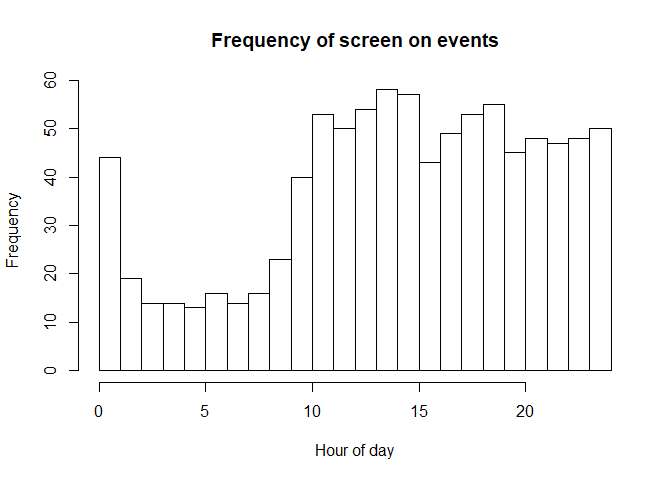
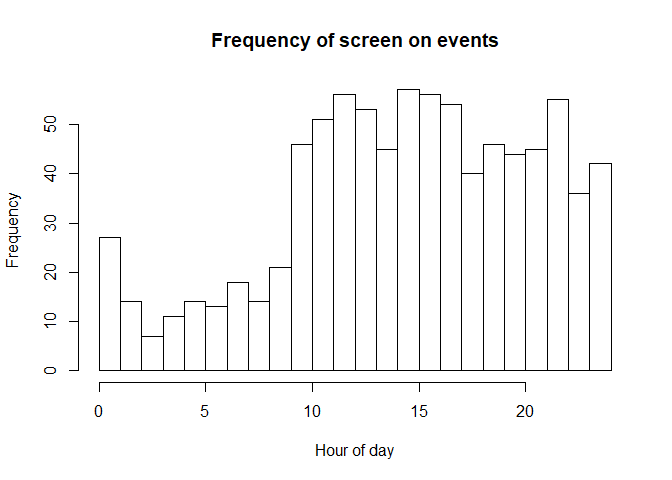
rho=0 option added

diff --git a/README.md b/README.md
@@ -139,36 +139,36 @@ head(outmat_orig)
 ```
 
     ##                    t0                  t1
-    ## 1 03/03/2019 15:00:00 03/03/2019 15:00:37
-    ## 2 03/03/2019 15:00:37 03/03/2019 15:04:45
-    ## 3 03/03/2019 15:04:45 03/03/2019 15:55:36
-    ## 4 03/03/2019 15:55:36 03/03/2019 16:05:45
-    ## 5 03/03/2019 16:05:45 03/03/2019 16:19:04
-    ## 6 03/03/2019 16:19:04 03/03/2019 16:35:38
+    ## 1 03/03/2019 15:00:00 03/03/2019 15:01:24
+    ## 2 03/03/2019 15:01:24 03/03/2019 15:07:07
+    ## 3 03/03/2019 15:07:07 03/03/2019 15:10:30
+    ## 4 03/03/2019 15:10:30 03/03/2019 15:14:44
+    ## 5 03/03/2019 15:14:44 03/03/2019 15:25:43
+    ## 6 03/03/2019 15:25:43 03/03/2019 15:52:49
 
 ``` r
 head(outmat_mod)
 ```
 
     ##          [,1]     [,2] [,3]
-    ## [1,] 15.00000 15.01031    1
-    ## [2,] 15.01031 15.07927    1
-    ## [3,] 15.07927 15.92672    1
-    ## [4,] 15.92672 16.09605    1
-    ## [5,] 16.09605 16.31796    1
-    ## [6,] 16.31796 16.59406    1
+    ## [1,] 15.00000 15.02355    1
+    ## [2,] 15.02355 15.11874    1
+    ## [3,] 15.11874 15.17514    1
+    ## [4,] 15.17514 15.24565    1
+    ## [5,] 15.24565 15.42864    1
+    ## [6,] 15.42864 15.88029    1
 
 ``` r
 head(compare_to_outmat_mod)
 ```
 
     ##          [,1]     [,2] [,3]
-    ## [1,] 15.00000 15.01028    1
-    ## [2,] 15.01028 15.07917    1
-    ## [3,] 15.07917 15.92667    1
-    ## [4,] 15.92667 16.09583    1
-    ## [5,] 16.09583 16.31778    1
-    ## [6,] 16.31778 16.59389    1
+    ## [1,] 15.00000 15.02333    1
+    ## [2,] 15.02333 15.11861    1
+    ## [3,] 15.11861 15.17500    1
+    ## [4,] 15.17500 15.24556    1
+    ## [5,] 15.24556 15.42861    1
+    ## [6,] 15.42861 15.88028    1
 
 To see what the resulting data looks
 like:
@@ -283,23 +283,12 @@ times (*x\_s* and *x\_w*). We do a grid search over some of the
 parameter space (*rho*, *sigma\_s*, and *sigma\_w*) to pick an initial
 value for the numerical optimization of the likelihood, but we make
 smarter data-based guesses as initial values for the remaing parameters
-(*mu\_s*, *mu\_w*, *lambda\_s*, and *lambda\_w*).
+(*mu\_s*, *mu\_w*, *lambda\_s*, and *lambda\_w*). Note that we also
+allow for the option of setting *rho* equal to zero. This is controlled
+by the boolean *incl\_rho* parameter in the FindParamMLEs function, with
+a default value of false.
 
 ``` r
-# IndLik2 = function(t_init,wt,xs,xw,lambda_s,lambda_w){
-#   if(t_init< xs){
-#     numer = lambda_w*exp(-lambda_w*wt)
-#     denom = 1-exp(-lambda_w*(xs-t_init))+exp(-lambda_s*(xs-t_init))-exp(-lambda_s*(xw-t_init))+exp(-lambda_w*(xw-t_init))
-#   }else if(t_init < xw){
-#     numer = lambda_s*exp(-lambda_s*wt)
-#     denom = 1-exp(-lambda_s*(xw-t_init))+exp(-lambda_w*(xw-t_init))
-#   }else{
-#     numer = lambda_w*exp(-lambda_w*wt)
-#     denom = 1
-#   }
-#   return(numer/denom)
-# }
-
 IndLik = function(t_init,wt,xs,xw,lambda_s,lambda_w,mu_s,mu_w){
   if(t_init+wt>mu_s+24){ # return pr(t_init+wt>mu_s+24) instead of density
     if(t_init<xs){
@@ -338,24 +327,8 @@ IndLik = function(t_init,wt,xs,xw,lambda_s,lambda_w,mu_s,mu_w){
   }
 }
 
-# IndLik = function(t_init,wt,xs,xw,lambda_s,lambda_w){
-#   if(t_init<xs && xw<t_init+wt){# case 1: t_init<xs and xw<t_init+wt
-#     return(lambda_w*exp(-lambda_w*(xs-t_init)-lambda_s*(xw-xs)-lambda_w*(t_init+wt-xw)))
-#   }else if(t_init<xs && xs<t_init+wt){  # case 2: t_init<xs and xs<t_init+wt<xw
-#     return(lambda_s*exp(-lambda_w*(xs-t_init)-lambda_s*(t_init+wt-xs)))
-#   }else if(t_init+wt<xs){  # case 3: t_init<xs and t_init+wt<xs
-#     return(lambda_w*exp(-lambda_w*(wt)))
-#   }else if(t_init<xw && t_init+wt<xw){  # case 4: xs<t_init<xw and t_init+wt<xw
-#     return(lambda_s*exp(-lambda_s*(wt)))
-#   }else if(t_init<xw && xw<t_init+wt){  # case 5: xs<t_init<xw and xw<t_init+wt
-#     return(lambda_w*exp(-lambda_s*(xw-t_init)-lambda_w*(t_init+wt-xw)))
-#   }else if(xw<t_init){  # case 6: xw<t_init
-#     return(lambda_w*exp(-lambda_w*(wt)))
-#   }
-# }
 
-
-JointLik = function(mat,mu_s,mu_w,sigma_s,sigma_w,rho,lambda_s,lambda_w,x_s,x_w,INCL_DENSITY=FALSE,loglik=FALSE){
+JointLik = function(mat,mu_s,mu_w,sigma_s,sigma_w,rho,lambda_s,lambda_w,x_s,x_w,INCL_DENSITY=FALSE,loglik=FALSE,incl_rho=FALSE){
   if(x_s>x_w){
     if(loglik){
       return(-Inf)
@@ -383,6 +356,7 @@ JointLik = function(mat,mu_s,mu_w,sigma_s,sigma_w,rho,lambda_s,lambda_w,x_s,x_w,
     }
   }
   if(INCL_DENSITY){
+    if(!incl_rho){rho=0}
     if(loglik){
       t2=log(dmvnorm(c(x_s,x_w),mean = c(mu_s,mu_w), sigma= matrix(c(sigma_s^2,rho*sigma_s*sigma_w,rho*sigma_s*sigma_w,sigma_w^2),nrow=2,byrow=T)))
     }else{
@@ -403,7 +377,7 @@ JointLik = function(mat,mu_s,mu_w,sigma_s,sigma_w,rho,lambda_s,lambda_w,x_s,x_w,
 }
 
 
-MargLik = function(mat,mu_s,mu_w,sigma_s,sigma_w,rho,lambda_s,lambda_w,loglik=FALSE){
+MargLik = function(mat,mu_s,mu_w,sigma_s,sigma_w,rho,lambda_s,lambda_w,incl_rho,loglik=FALSE){
   if( mu_s> mu_w || sigma_s<0 || sigma_w<0 || abs(rho)>1 || lambda_s<0 || lambda_w <0 || lambda_s > lambda_w){
     if(loglik){
       return(-Inf)
@@ -418,9 +392,13 @@ MargLik = function(mat,mu_s,mu_w,sigma_s,sigma_w,rho,lambda_s,lambda_w,loglik=FA
       return(1)
     }
   }
-  Sigma=matrix(c(sigma_s^2,rho*sigma_s*sigma_w,rho*sigma_s*sigma_w,sigma_w^2),nrow=2,byrow=T)
+  if(incl_rho){
+    Sigma=matrix(c(sigma_s^2,rho*sigma_s*sigma_w,rho*sigma_s*sigma_w,sigma_w^2),nrow=2,byrow=T)
+  }else{
+    Sigma=matrix(c(sigma_s^2,0,0,sigma_w^2),nrow=2,byrow=T)
+  }
   ghout=mgauss.hermite(10,c(mu_s,mu_w),Sigma)
-  return(sum(ghout$weights*unlist(lapply(1:nrow(ghout$points),function(xx) JointLik(mat,mu_s,mu_w,sigma_s,sigma_w,rho,lambda_s,lambda_w,ghout$points[xx,1],ghout$points[xx,2],loglik)))))
+  return(sum(ghout$weights*unlist(lapply(1:nrow(ghout$points),function(xx) JointLik(mat,mu_s,mu_w,sigma_s,sigma_w,rho,lambda_s,lambda_w,ghout$points[xx,1],ghout$points[xx,2],loglik,incl_rho)))))
 }
 
 
@@ -449,15 +427,19 @@ InitialParameters = function(mat_mod,anchor_t){
 }
 
 
-GridSearchInitPars = function(mat_mod,anchor_t,labels,ls_ids,mu_s0,mu_w0,lambda_s0,lambda_w0){
+GridSearchInitPars = function(mat_mod,anchor_t,labels,ls_ids,mu_s0,mu_w0,lambda_s0,lambda_w0,incl_rho){
   sd_s_v = c(.25,.5,1)
   sd_w_v = c(.25,.5,1)
-  rho_v= c(0,.25,.5,.75)
+  if(incl_rho){
+    rho_v= c(0,.25,.5,.75)
+  }else{
+    rho_v=c(0)
+  }
   g=function(par_v){
     liktot=0
     for(i in 1:length(labels)){
       mat=mat_mod[ls_ids[[i]],1:2]
-      liktot=liktot-log(MargLik(mat,par_v[1],par_v[2],par_v[3],par_v[4],par_v[5],par_v[6],par_v[7]))
+      liktot=liktot-log(MargLik(mat,par_v[1],par_v[2],par_v[3],par_v[4],par_v[5],par_v[6],par_v[7],incl_rho))
     }
     return(liktot)
   }
@@ -478,7 +460,7 @@ GridSearchInitPars = function(mat_mod,anchor_t,labels,ls_ids,mu_s0,mu_w0,lambda_
 }
 
 
-FindParamMLEs = function(dat,anchor_t,maxiter=20,init_par=NULL,tol=.0001){
+FindParamMLEs = function(dat,anchor_t,incl_rho=FALSE,maxiter=20,init_par=NULL,tol=.0001){
   labels=unique(dat[,3])
   ls_ids = list()
   for(i in 1:length(labels)){
@@ -491,7 +473,7 @@ FindParamMLEs = function(dat,anchor_t,maxiter=20,init_par=NULL,tol=.0001){
     mu_w0=init_pars4[2]
     lambda_s0=init_pars4[3]
     lambda_w0=init_pars4[4]
-    init_par = GridSearchInitPars(dat,anchor_t,labels,ls_ids,mu_s0,mu_w0,lambda_s0,lambda_w0)
+    init_par = GridSearchInitPars(dat,anchor_t,labels,ls_ids,mu_s0,mu_w0,lambda_s0,lambda_w0,incl_rho)
   }
   cur_par=init_par
   prev_par=cur_par
@@ -501,22 +483,35 @@ FindParamMLEs = function(dat,anchor_t,maxiter=20,init_par=NULL,tol=.0001){
       liktot=0
       for(i in 1:length(labels)){
         mat=dat[ls_ids[[i]],1:2]
-        liktot=liktot-log(MargLik(mat,par_v[1],par_v[2],cur_par[3],cur_par[4],cur_par[5],par_v[3],par_v[4]))
+        liktot=liktot-log(MargLik(mat,par_v[1],par_v[2],cur_par[3],cur_par[4],cur_par[5],par_v[3],par_v[4],incl_rho))
       }
       return(liktot)
     }
     optim.out1=optim(par=cur_par[c(1,2,6,7)],g1,control=list(maxit=1000))
     cur_par[c(1,2,6,7)]=optim.out1$par
-    g2=function(par_v){
-      liktot=0
-      for(i in 1:length(labels)){
-        mat=dat[ls_ids[[i]],1:2]
-        liktot=liktot-log(MargLik(mat,cur_par[1],cur_par[2],par_v[1],par_v[2],par_v[3],cur_par[6],cur_par[7]))
+    if(incl_rho){
+      g2=function(par_v){
+        liktot=0
+        for(i in 1:length(labels)){
+          mat=dat[ls_ids[[i]],1:2]
+          liktot=liktot-log(MargLik(mat,cur_par[1],cur_par[2],par_v[1],par_v[2],par_v[3],cur_par[6],cur_par[7],incl_rho))
+        }
+        return(liktot)
       }
-      return(liktot)
+      optim.out2=optim(par=cur_par[c(3,4,5)],g2,control=list(maxit=1000))
+      cur_par[c(3,4,5)]=optim.out2$par
+    }else{
+      g2=function(par_v){
+        liktot=0
+        for(i in 1:length(labels)){
+          mat=dat[ls_ids[[i]],1:2]
+          liktot=liktot-log(MargLik(mat,cur_par[1],cur_par[2],par_v[1],par_v[2],0,cur_par[6],cur_par[7],incl_rho))
+        }
+        return(liktot)
+      }
+      optim.out2=optim(par=cur_par[c(3,4)],g2,control=list(maxit=1000))
+      cur_par[c(3,4)]=optim.out2$par
     }
-    optim.out2=optim(par=cur_par[c(3,4,5)],g2,control=list(maxit=1000))
-    cur_par[c(3,4,5)]=optim.out2$par
     cat("Iter ",i,": mu_s =",cur_par[1],"; mu_w =",cur_par[2],"; sd_s =",cur_par[3],"; sd_w =",cur_par[4],"; rho =",cur_par[5],"; lambda_s =",cur_par[6],"; lambda_w =",cur_par[7],"\n")
     if(sum((prev_par-cur_par)^2)<tol){
       break
@@ -527,15 +522,15 @@ FindParamMLEs = function(dat,anchor_t,maxiter=20,init_par=NULL,tol=.0001){
   return(cur_par)
 }
 
-mle.out=FindParamMLEs(outmat_mod,anchor_t)
+mle.out=FindParamMLEs(outmat_mod,anchor_t,incl_rho=FALSE)
 ```
 
     ## Identifying good initial model parameters...
     ## Numerical optimization (using optim) until convergence (maxiter= 20 ):
-    ## Iter  1 : mu_s = 25.24636 ; mu_w = 33.28475 ; sd_s = 1.025562 ; sd_w = 0.9999187 ; rho = 0.7637859 ; lambda_s = 1.74148 ; lambda_w = 5.105744 
-    ## Iter  2 : mu_s = 25.24236 ; mu_w = 33.28475 ; sd_s = 1.02624 ; sd_w = 0.9987874 ; rho = 0.766085 ; lambda_s = 1.661761 ; lambda_w = 5.012784 
-    ## Iter  3 : mu_s = 25.24236 ; mu_w = 33.28475 ; sd_s = 1.02624 ; sd_w = 0.9987874 ; rho = 0.766085 ; lambda_s = 1.667631 ; lambda_w = 5.001537 
-    ## Iter  4 : mu_s = 25.24236 ; mu_w = 33.28475 ; sd_s = 1.02624 ; sd_w = 0.9987874 ; rho = 0.766085 ; lambda_s = 1.667631 ; lambda_w = 5.001537
+    ## Iter  1 : mu_s = 24.2816 ; mu_w = 33.18183 ; sd_s = 0.974664 ; sd_w = 0.9723235 ; rho = 0 ; lambda_s = 1.406986 ; lambda_w = 4.921006 
+    ## Iter  2 : mu_s = 24.2816 ; mu_w = 33.1823 ; sd_s = 0.9746456 ; sd_w = 0.9722013 ; rho = 0 ; lambda_s = 1.410163 ; lambda_w = 4.857333 
+    ## Iter  3 : mu_s = 24.2816 ; mu_w = 33.18248 ; sd_s = 0.9746455 ; sd_w = 0.9722016 ; rho = 0 ; lambda_s = 1.479092 ; lambda_w = 4.911341 
+    ## Iter  4 : mu_s = 24.2816 ; mu_w = 33.18247 ; sd_s = 0.9746455 ; sd_w = 0.9722016 ; rho = 0 ; lambda_s = 1.47634 ; lambda_w = 4.908354
 
 The maximum likelihood estimates and the interpretations of the model
 parameters are:
@@ -562,11 +557,11 @@ cat(paste(" Avg. time to sleep = ",sleep_t," (+/- ",round(mle.out[3],1)," hour)\
 ,(paste("Rate (per hour) of frequency of phone use while awake = ", round(mle.out[7],5),"\n",sep="")))
 ```
 
-    ##  Avg. time to sleep = 1:14 (+/- 1 hour)
-    ##  Avg. time to wake  = 9:17 (+/- 1 hour)
-    ##  Correlation between time to sleep and time to wake = 0.77
-    ##  Rate (per hour) of frequency of phone use while asleep = 1.66763
-    ##  Rate (per hour) of frequency of phone use while awake = 5.00154
+    ##  Avg. time to sleep = 0:16 (+/- 1 hour)
+    ##  Avg. time to wake  = 9:10 (+/- 1 hour)
+    ##  Correlation between time to sleep and time to wake = 0
+    ##  Rate (per hour) of frequency of phone use while asleep = 1.47634
+    ##  Rate (per hour) of frequency of phone use while awake = 4.90835
 
 ### Estimating bed times and wake up times for each day
 
@@ -624,13 +619,13 @@ xest_orig
 ```
 
     ##                bedtime        wake-up time
-    ## 1  03/04/2019 01:10:00 03/04/2019 09:21:19
-    ## 2  03/05/2019 01:12:36 03/05/2019 09:20:05
-    ## 3  03/06/2019 00:36:01 03/06/2019 09:01:37
-    ## 4  03/07/2019 00:34:29 03/07/2019 08:37:12
-    ## 5  03/08/2019 01:12:09 03/08/2019 10:02:32
-    ## 6  03/09/2019 00:24:41 03/09/2019 09:02:23
-    ## 7  03/10/2019 00:30:43 03/10/2019 08:51:44
-    ## 8  03/11/2019 01:12:39 03/11/2019 09:35:59
-    ## 9  03/12/2019 00:57:41 03/12/2019 09:26:44
-    ## 10 03/13/2019 02:43:05 03/13/2019 09:22:42
+    ## 1  03/04/2019 00:33:29 03/04/2019 09:52:24
+    ## 2  03/05/2019 00:29:19 03/05/2019 10:51:48
+    ## 3  03/06/2019 01:09:28 03/06/2019 09:18:40
+    ## 4  03/07/2019 00:20:45 03/07/2019 09:00:45
+    ## 5  03/08/2019 00:53:45 03/08/2019 09:13:59
+    ## 6  03/09/2019 00:40:10 03/09/2019 08:49:52
+    ## 7  03/10/2019 01:02:17 03/10/2019 09:03:40
+    ## 8  03/11/2019 00:17:50 03/11/2019 08:57:04
+    ## 9  03/11/2019 23:51:31 03/12/2019 08:43:01
+    ## 10 03/12/2019 23:52:44 03/13/2019 09:00:08
